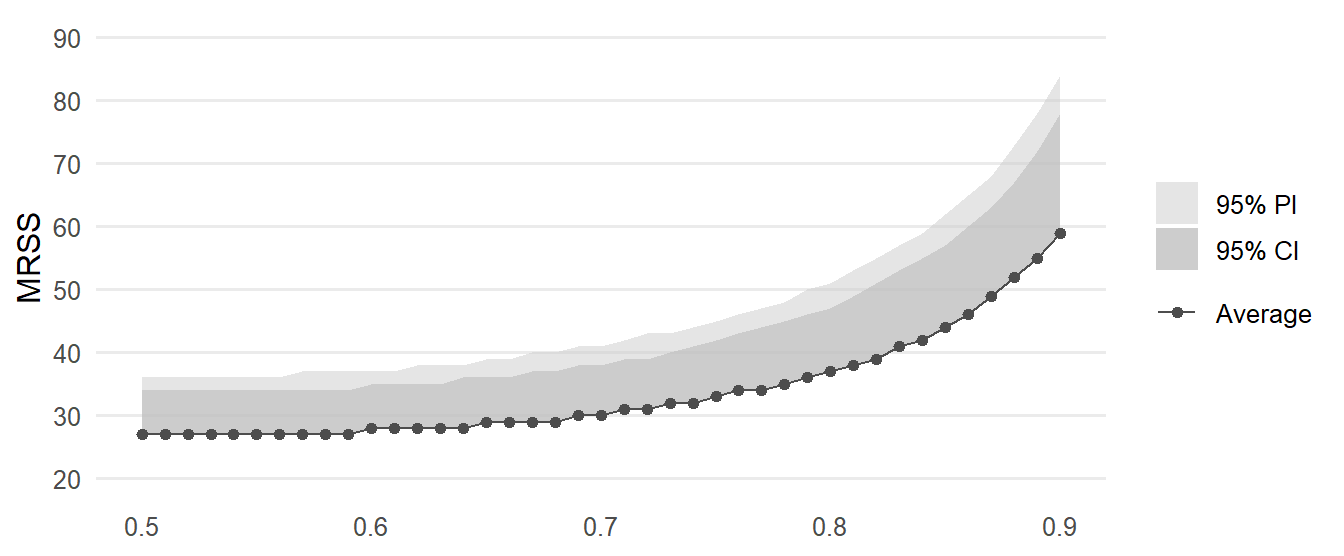
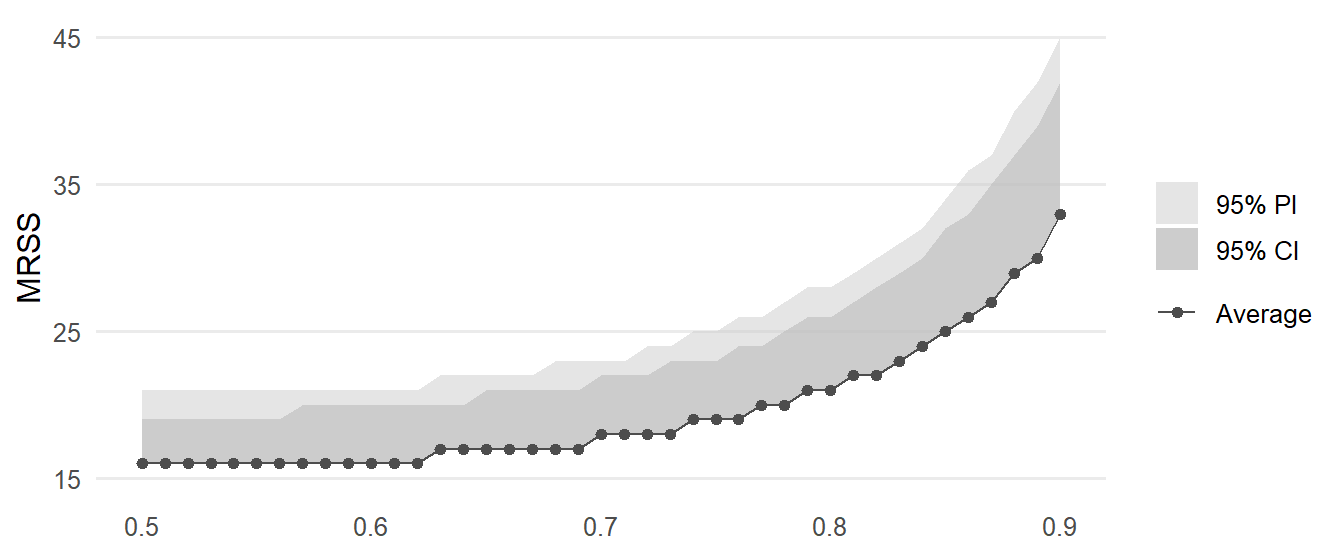
Revise Scenario 4

diff --git a/docs/osm_b/index.html b/docs/osm_b/index.html
@@ -7,7 +7,7 @@
 <meta name="viewport" content="width=device-width, initial-scale=1.0, user-scalable=yes">
 
 
-<title>OSM B: Application – Design Parameters for Socio-Emotional Learning Outcomes</title>
+<title>OSM B: R Application Demo – Design Parameters for Socio-Emotional Learning Outcomes</title>
 <style>
 code{white-space: pre-wrap;}
 span.smallcaps{font-variant: small-caps;}
@@ -147,15 +147,15 @@ div.csl-indent {
             <ul class="navbar-nav navbar-nav-scroll me-auto">
   <li class="nav-item">
     <a class="nav-link" href="../dp/index.html"> 
-<span class="menu-text">Database</span></a>
+<span class="menu-text">Database of Design Parameters</span></a>
   </li>  
   <li class="nav-item">
     <a class="nav-link" href="../osm_a/index.html"> 
-<span class="menu-text">OSM A</span></a>
+<span class="menu-text">OSM A: Materials and Methods</span></a>
   </li>  
   <li class="nav-item">
     <a class="nav-link active" href="../osm_b/index.html" aria-current="page"> 
-<span class="menu-text">OSM B</span></a>
+<span class="menu-text">OSM B: R Application Demo</span></a>
   </li>  
 </ul>
           </div> <!-- /navcollapse -->
@@ -190,7 +190,7 @@ div.csl-indent {
 
 <header id="title-block-header" class="quarto-title-block default">
 <div class="quarto-title">
-<h1 class="title">OSM B: Application</h1>
+<h1 class="title">OSM B: R Application Demo</h1>
 </div>
 
 
@@ -1235,20 +1235,20 @@ Figure&nbsp;3: Power Curves Across Varying Numbers of Schools and Effect Size Va
 <h2 class="anchored" data-anchor-id="scenario-4-three-level-mscrt">Scenario 4: Three-level MSCRT</h2>
 <div class="scenario-header">
 <div class="scenario-subtitle">
-<p>A field three-level MSCRT on problem behavior in non-academic lower secondary schools</p>
+<p>A field three-level MSCRT on peer relationships in non-academic lower secondary schools</p>
 </div>
 <div class="scenario-question">
 <p><i class="bi bi-arrow-right-short"></i> How many schools are required?</p>
 </div>
 </div>
-<p>A research team is commissioned by policymakers to evaluate the effectiveness of a newly developed program aimed at reducing problem behaviors—such as violence and bullying—among students in Grades 5 to 10 attending the non-academic track of lower secondary education. Because the intervention targets classroom-level peer processes, the team plans a three-level MSCRT randomizing intact classrooms within schools.</p>
-<p>The policymakers indicate that they would support a regular implementation of the program only if its effects are at least comparable to those typically achieved by existing similar interventions. Accordingly, the research team defines a minimum relevant effect size of <em>MRES</em> = 0.16, corresponding to the average standardized mean difference reported for interventions targeting externalizing behaviors in the meta-analysis by Cipriano et al. <span class="citation" data-cites="ciprianoStateEvidenceSocial2023">(<a href="#ref-ciprianoStateEvidenceSocial2023" role="doc-biblioref">2023</a>, Table 3)</span>.</p>
-<p>In line with common organizational structures in lower secondary schools, the team plans to sample at least 4 classrooms per school, with 20 students per classroom. To improve statistical precision, the analyses will adjust for students’ sociodemographic characteristics.</p>
-<p>To inform the power analyses, the researchers draw on the meta-analytically summarized design parameters for other-oriented SEL domains in a general context from MA-3. To explicitly account for uncertainty in these design parameters, they additionally incorporate the 95% CIs and 95% PIs into their calculations. Specifically, they consider a pessimistic planning scenario by combining the respective upper bounds for ICCs with the lower bounds of the <em>R</em><sup>2</sup> values. Moreover, the team assumes a moderate degree of cross-school treatment effect heterogeneity, setting the effect size variability to τ² = 0.15² <span class="citation" data-cites="weissHowMuchEffects2017">(<a href="#ref-weissHowMuchEffects2017" role="doc-biblioref">Weiss et al., 2017</a>)</span>. Further, they assume that school-level sociodemographics can explain a substantial share of this heterogeneity <span class="citation" data-cites="schochetUnderstandingVariationTreatment2014 weissConceptualFrameworkStudying2014">(see <a href="#ref-schochetUnderstandingVariationTreatment2014" role="doc-biblioref">Schochet et al., 2014</a>; <a href="#ref-weissConceptualFrameworkStudying2014" role="doc-biblioref">Weiss et al., 2014</a>)</span>, amounting to approximately half of the variance in between-school differences in other-oriented outcome measures accounted for by these covariates.</p>
-<p>In applied school settings, perfectly balanced treatment allocation at the classroom level is often difficult to achieve. Practical constraints, differential opportunities for program implementation, and ethical considerations may result in unequal proportions of classrooms assigned to the treatment and control conditions. To reflect this realistic planning uncertainty, the research team conducts sensitivity analyses across varying treatment allocation proportions in the range of 0.50 ≤ <em>P</em> ≤ 0.90. The goal of these power analyses is to determine the minimum required number of schools needed to ensure sufficient statistical power (1-β = 0.80) to detect the policy-relevant MRES of 0.16 (with α = 0.05 in a two-tailed test), even under substantial treatment allocation imbalance.</p>
+<p>A research team is commissioned by policymakers to evaluate the effectiveness of a newly developed program aimed at strengthening peer relationships among students in Grades 5 to 10 attending the non-academic track of lower secondary education. Because the intervention targets classroom-level peer processes, the team plans a three-level MSCRT randomizing intact classrooms within schools.</p>
+<p>The policymakers indicate that they would support a regular implementation of the program only if its effects are at least comparable to those typically achieved by existing similar interventions. Accordingly, the research team defines a minimum relevant effect size of <em>MRES</em> = 0.22, corresponding to the average standardized mean difference reported for interventions targeting peer relationships in the meta-analysis by Cipriano et al. <span class="citation" data-cites="ciprianoStateEvidenceSocial2023">(<a href="#ref-ciprianoStateEvidenceSocial2023" role="doc-biblioref">2023</a>, Table 3)</span>.</p>
+<p>In line with common organizational structures in lower secondary schools, the team plans to sample at least 4 classrooms per school, with 20 students per classroom. The students will be post-tested after completion of the program. To improve statistical precision, the analyses will adjust for students’ sociodemographic characteristics.</p>
+<p>To inform the power analyses, the researchers draw on the meta-analytically summarized design parameters for other-oriented SEL domains in a general context from MA-3. To explicitly account for uncertainty in these design parameters, they additionally incorporate the 95% CIs and 95% PIs into their calculations. Specifically, they consider a pessimistic planning scenario by combining the respective upper bounds for ICCs with the lower bounds of the <em>R</em><sup>2</sup> values. Moreover, the team assumes a moderate degree of cross-school treatment effect heterogeneity, setting the effect size variability to τ² = 0.15² <span class="citation" data-cites="weissHowMuchEffects2017">(<a href="#ref-weissHowMuchEffects2017" role="doc-biblioref">Weiss et al., 2017</a>)</span>. Further, they assume that school-level sociodemographics can explain a substantial share of this heterogeneity <span class="citation" data-cites="schochetUnderstandingVariationTreatment2014 weissConceptualFrameworkStudying2014">(see <a href="#ref-schochetUnderstandingVariationTreatment2014" role="doc-biblioref">Schochet et al., 2014</a>; <a href="#ref-weissConceptualFrameworkStudying2014" role="doc-biblioref">Weiss et al., 2014</a>)</span>, amounting to approximately half of the variance in between-school differences in other-oriented general-context outcome measures accounted for by these covariates.</p>
+<p>In applied school settings, perfectly balanced treatment allocation at the classroom level is often difficult to achieve. Practical constraints, differential opportunities for program implementation, and ethical considerations may result in unequal proportions of classrooms assigned to the treatment and control conditions. To reflect this realistic planning uncertainty, the research team conducts sensitivity analyses across varying treatment allocation proportions in the range of 0.50 ≤ <em>P</em> ≤ 0.90. The goal of these power analyses is to determine the minimum required number of schools needed to ensure sufficient statistical power (1-β = 0.80) to detect the policy-relevant <em>MRES</em> of 0.22 (with α = 0.05 in a two-tailed test), even under substantial treatment allocation imbalance.</p>
 <div class="cell">
 <div class="sourceCode cell-code" id="cb39"><pre class="sourceCode r code-with-copy"><code class="sourceCode r"><span id="cb39-1"><a href="#cb39-1" aria-hidden="true" tabindex="-1"></a><span class="co"># set the MRES</span></span>
-<span id="cb39-2"><a href="#cb39-2" aria-hidden="true" tabindex="-1"></a>es.s4 <span class="ot">&lt;-</span> .<span class="dv">16</span></span></code><button title="Copy to Clipboard" class="code-copy-button"><i class="bi"></i></button></pre></div>
+<span id="cb39-2"><a href="#cb39-2" aria-hidden="true" tabindex="-1"></a>es.s4 <span class="ot">&lt;-</span> .<span class="dv">22</span></span></code><button title="Copy to Clipboard" class="code-copy-button"><i class="bi"></i></button></pre></div>
 </div>
 <div class="cell">
 <div class="sourceCode cell-code" id="cb40"><pre class="sourceCode r code-with-copy"><code class="sourceCode r"><span id="cb40-1"><a href="#cb40-1" aria-hidden="true" tabindex="-1"></a><span class="co"># set the sample size</span></span>
@@ -1469,33 +1469,33 @@ Table&nbsp;8: MRSS for Average and Conservative Design Parameters by Treatment A
 <tbody>
 <tr class="odd">
 <td style="text-align: right;">0.5</td>
-<td style="text-align: right;">27</td>
-<td style="text-align: right;">34</td>
-<td style="text-align: right;">36</td>
+<td style="text-align: right;">16</td>
+<td style="text-align: right;">19</td>
+<td style="text-align: right;">21</td>
 </tr>
 <tr class="even">
 <td style="text-align: right;">0.6</td>
-<td style="text-align: right;">28</td>
-<td style="text-align: right;">35</td>
-<td style="text-align: right;">37</td>
+<td style="text-align: right;">16</td>
+<td style="text-align: right;">20</td>
+<td style="text-align: right;">21</td>
 </tr>
 <tr class="odd">
 <td style="text-align: right;">0.7</td>
-<td style="text-align: right;">30</td>
-<td style="text-align: right;">38</td>
-<td style="text-align: right;">41</td>
+<td style="text-align: right;">18</td>
+<td style="text-align: right;">22</td>
+<td style="text-align: right;">23</td>
 </tr>
 <tr class="even">
 <td style="text-align: right;">0.8</td>
-<td style="text-align: right;">37</td>
-<td style="text-align: right;">47</td>
-<td style="text-align: right;">51</td>
+<td style="text-align: right;">21</td>
+<td style="text-align: right;">26</td>
+<td style="text-align: right;">28</td>
 </tr>
 <tr class="odd">
 <td style="text-align: right;">0.9</td>
-<td style="text-align: right;">59</td>
-<td style="text-align: right;">78</td>
-<td style="text-align: right;">84</td>
+<td style="text-align: right;">33</td>
+<td style="text-align: right;">42</td>
+<td style="text-align: right;">45</td>
 </tr>
 </tbody>
 </table>
@@ -1516,7 +1516,7 @@ Table&nbsp;8: MRSS for Average and Conservative Design Parameters by Treatment A
 <span id="cb50-5"><a href="#cb50-5" aria-hidden="true" tabindex="-1"></a>  <span class="fu">geom_line</span>(<span class="fu">aes</span>(<span class="at">y =</span> Average, <span class="at">color =</span> <span class="st">"Average"</span>), <span class="at">linewidth =</span> <span class="fl">0.5</span>) <span class="sc">+</span> </span>
 <span id="cb50-6"><a href="#cb50-6" aria-hidden="true" tabindex="-1"></a>  <span class="fu">geom_point</span>(<span class="fu">aes</span>(<span class="at">y =</span> Average, <span class="at">color =</span> <span class="st">"Average"</span>)) <span class="sc">+</span></span>
 <span id="cb50-7"><a href="#cb50-7" aria-hidden="true" tabindex="-1"></a>  </span>
-<span id="cb50-8"><a href="#cb50-8" aria-hidden="true" tabindex="-1"></a>  <span class="fu">scale_y_continuous</span>(<span class="at">breaks =</span> <span class="fu">seq</span>(<span class="dv">20</span>, <span class="dv">90</span>, <span class="dv">10</span>), <span class="at">limits =</span> <span class="fu">c</span>(<span class="dv">20</span>, <span class="dv">90</span>)) <span class="sc">+</span></span>
+<span id="cb50-8"><a href="#cb50-8" aria-hidden="true" tabindex="-1"></a>  <span class="fu">scale_y_continuous</span>(<span class="at">breaks =</span> <span class="fu">seq</span>(<span class="dv">15</span>, <span class="dv">45</span>, <span class="dv">10</span>), <span class="at">limits =</span> <span class="fu">c</span>(<span class="dv">15</span>, <span class="dv">45</span>)) <span class="sc">+</span></span>
 <span id="cb50-9"><a href="#cb50-9" aria-hidden="true" tabindex="-1"></a>  <span class="fu">scale_color_manual</span>(<span class="at">values =</span> <span class="fu">c</span>(<span class="st">"Average"</span> <span class="ot">=</span> <span class="st">"#4D4D4D"</span>)) <span class="sc">+</span></span>
 <span id="cb50-10"><a href="#cb50-10" aria-hidden="true" tabindex="-1"></a>  <span class="fu">scale_fill_manual</span>(<span class="at">values =</span> <span class="fu">c</span>(<span class="st">"95% CI"</span> <span class="ot">=</span> <span class="st">"#9C9C9C"</span>, <span class="st">"95% PI"</span> <span class="ot">=</span> <span class="st">"#CCCCCC"</span>),</span>
 <span id="cb50-11"><a href="#cb50-11" aria-hidden="true" tabindex="-1"></a>                    <span class="at">breaks =</span> <span class="fu">c</span>(<span class="st">"95% PI"</span>, <span class="st">"95% CI"</span>)) <span class="sc">+</span></span>
@@ -1546,9 +1546,9 @@ Figure&nbsp;4: MRSS (with 95% CI and PI) for Varying Treatment Allocation Propor
 </div>
 </div>
 </div>
-<p>As shown in Table 8, across allocation proportions, the <em>MRSS</em> ranges between 27 ≤ <em>K</em> ≤ 59 schools when using the meta-analytic average design parameters, between 34 ≤ <em>K</em> ≤ 78 schools when relying on conservative 95% CI bounds, and between 36 ≤ <em>K</em> ≤ 84 schools when adopting the most pessimistic assumptions based on 95% PI bounds. Under mild imbalance (<em>P</em> = .60), the required number of schools equals <em>K</em> = 28 when using the meta-analytic averages. This requirement increases to <em>K</em> = 35 schools when using 95% CI bounds and to <em>K</em> = 37 schools when relying on 95% PI bounds. Under strong imbalance (<em>P</em> = .80), the <em>MRSS</em> correspondingly rises to <em>K</em> = 37/47/51 schools.</p>
-<p>Figure 4 illustrates that the <em>MRSS</em> increases monotonically with growing treatment allocation imbalance in all considered cases. As the allocation proportion departs from a balanced design, increasingly more schools are required to compensate for the resulting loss in statistical efficiency. This increase is modest when relying on the meta-analytic averages, but becomes substantially more pronounced under conservative 95% CI- and 95% PI-based assumptions.</p>
-<p>To sum up, the results indicate that treatment allocation imbalance can considerably inflate the <em>MRSS</em> in the three-level MSCRT on problem behaviors. Planning under realistic degrees of uncertainty therefore necessitates a noticeably larger school sample to ensure that the design is sensitive enough to detect <em>MRES</em> = .16, particularly when strong imbalance is anticipated.</p>
+<p>As shown in Table 8, across allocation proportions, the <em>MRSS</em> ranges between 16 ≤ <em>K</em> ≤ 33 schools when using the meta-analytic average design parameters, between 19 ≤ <em>K</em> ≤ 42 schools when relying on conservative 95% CI bounds, and between 21 ≤ <em>K</em> ≤ 45 schools when adopting the most pessimistic assumptions based on 95% PI bounds. Under mild imbalance (<em>P</em> = .60), the required number of schools still equals <em>K</em> = 16 when using the meta-analytic averages. This requirement increases to <em>K</em> = 20 schools when using 95% CI bounds and to <em>K</em> = 21 schools when relying on 95% PI bounds. Under strong imbalance (<em>P</em> = .80), the <em>MRSS</em> correspondingly rises to <em>K</em> = 21/26/28 schools.</p>
+<p>Figure 4 illustrates that the <em>MRSS</em> increases monotonically with growing treatment allocation imbalance in all considered cases. As the allocation proportion departs from a balanced design, increasingly more schools are required to compensate for the resulting loss in statistical efficiency. This increase is substantial when relying on the meta-analytic averages, and becomes even more pronounced under conservative 95% CI- and 95% PI-based assumptions.</p>
+<p>To sum up, the results indicate that treatment allocation imbalance can considerably inflate the <em>MRSS</em> in the three-level MSCRT on peer relationships. Planning under realistic degrees of uncertainty therefore necessitates a noticeably larger school sample to ensure that the design is sensitive enough to detect <em>MRES</em> = .22, particularly when strong imbalance is anticipated.</p>
 
 
 
